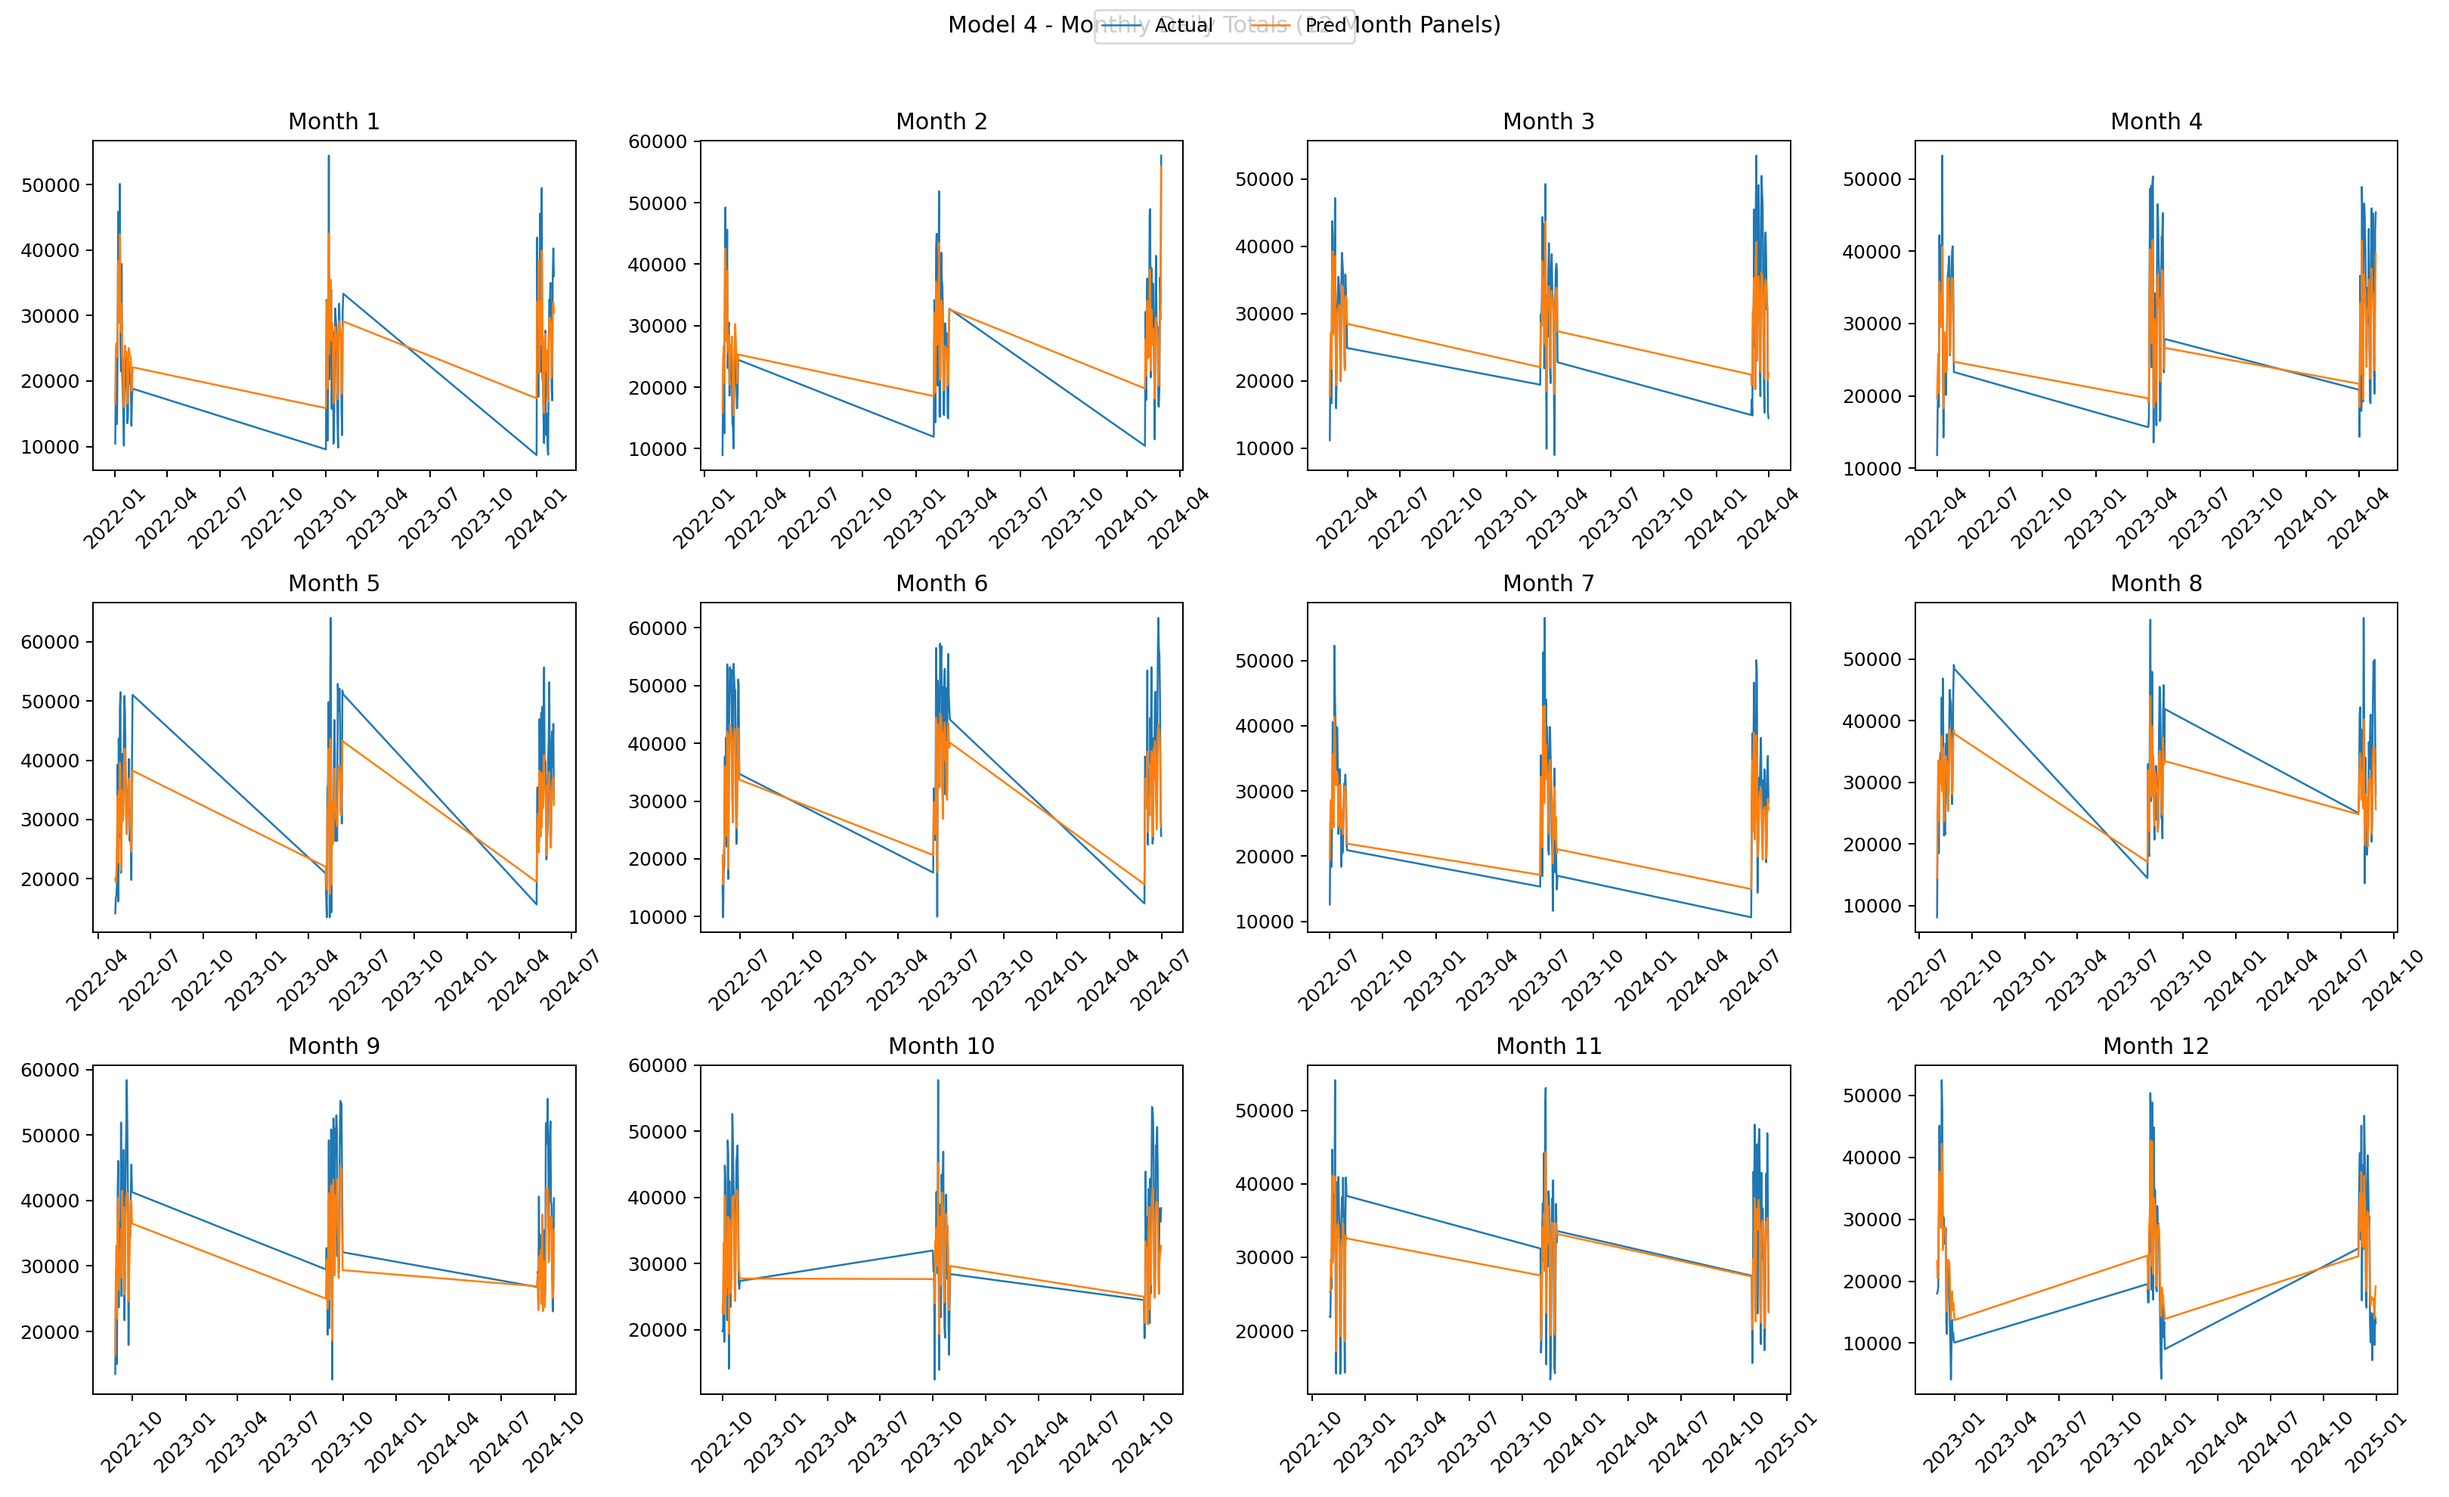
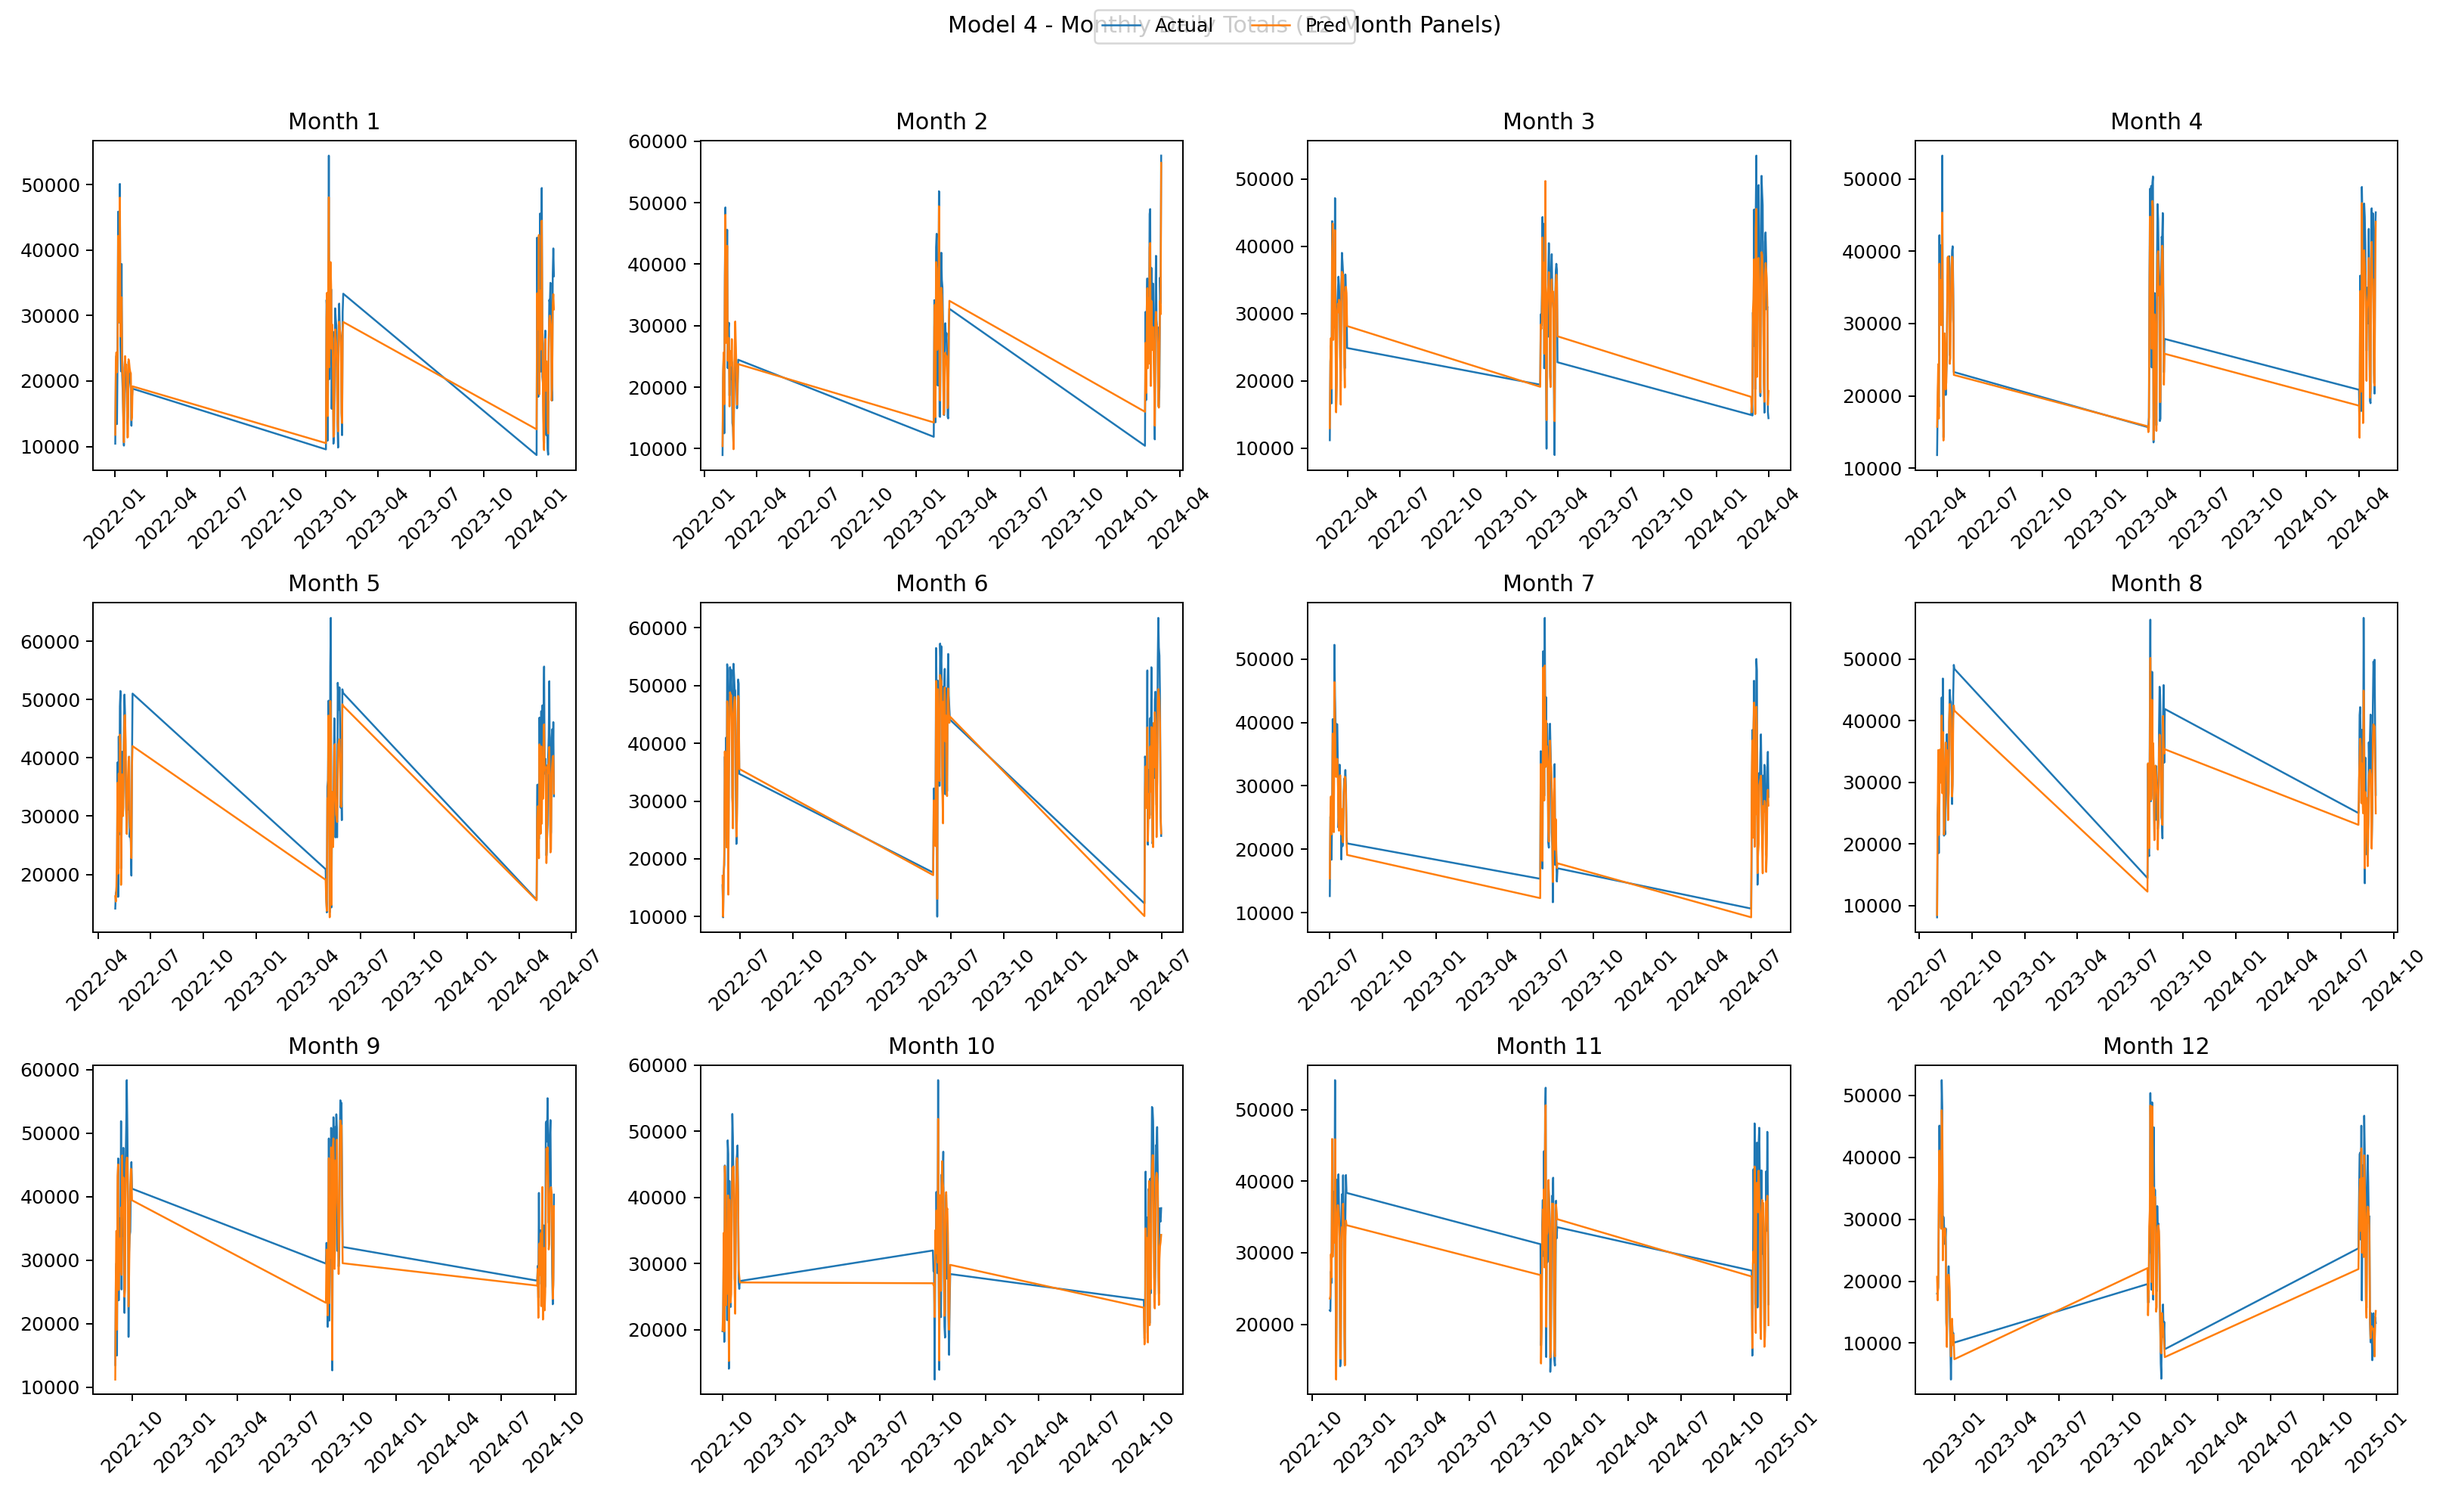
Set Model4 defaults to n_clusters=12 and disable mean blend for >0.77 R2
Agent-Logs-Url: https://github.com/PranavSPandya7/BikeCount/sessions/3464add6-37e2-4c0e-beba-e58a9f18f676

diff --git a/model4_outputs/model_code_r2=0.775605.py b/model4_outputs/model_code_r2=0.775605.py
@@ -23,7 +23,13 @@ def parse_args():
         default="/home/runner/work/BikeCount/BikeCount/model4_outputs",
         help="Directory for outputs",
     )
-    p.add_argument("--n-clusters", type=int, default=4, help="Number of teacher/feature clusters")
+    p.add_argument("--n-clusters", type=int, default=12, help="Number of teacher/feature clusters")
+    p.add_argument(
+        "--mean-blend-scale",
+        type=float,
+        default=0.0,
+        help="Blend scale for shrinking low-mean station predictions toward station mean",
+    )
     p.add_argument("--max-stations", type=int, default=0, help="Limit number of test stations (0 = all)")
     p.add_argument(
         "--cluster-mode",
@@ -219,7 +225,9 @@ def main():
         )
         est_station_mean = max(est_station_mean, 1e-6)
 
-        pred_count = pred_profile * est_station_mean
+        pred_count_model = pred_profile * est_station_mean
+        blend_alpha = float(np.clip(est_station_mean / (est_station_mean + args.mean_blend_scale), 0.2, 1.0))
+        pred_count = blend_alpha * pred_count_model + (1.0 - blend_alpha) * est_station_mean
         fold_out = test_df[["FeatureID", "date_parsed", "Count"]].copy()
         fold_out["Pred_Count"] = pred_count
         fold_out["Fold_Test_Station"] = test_station

diff --git a/run_model4_only.py b/run_model4_only.py
@@ -23,11 +23,11 @@ def parse_args():
         default="/home/runner/work/BikeCount/BikeCount/model4_outputs",
         help="Directory for outputs",
     )
-    p.add_argument("--n-clusters", type=int, default=9, help="Number of teacher/feature clusters")
+    p.add_argument("--n-clusters", type=int, default=12, help="Number of teacher/feature clusters")
     p.add_argument(
         "--mean-blend-scale",
         type=float,
-        default=30.0,
+        default=0.0,
         help="Blend scale for shrinking low-mean station predictions toward station mean",
     )
     p.add_argument("--max-stations", type=int, default=0, help="Limit number of test stations (0 = all)")
